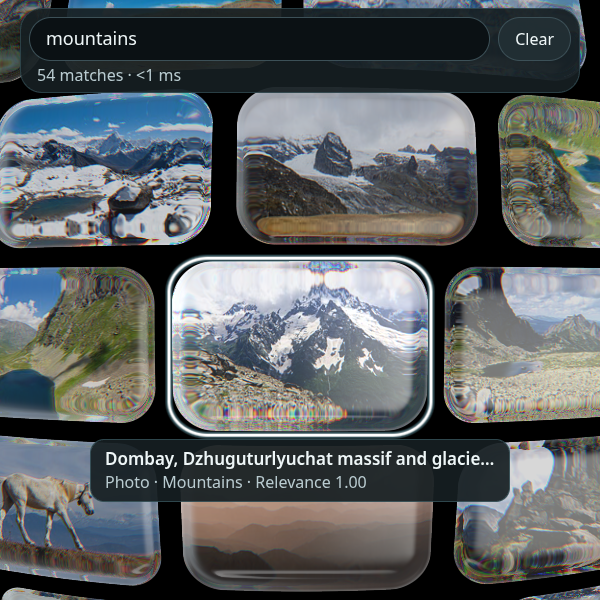
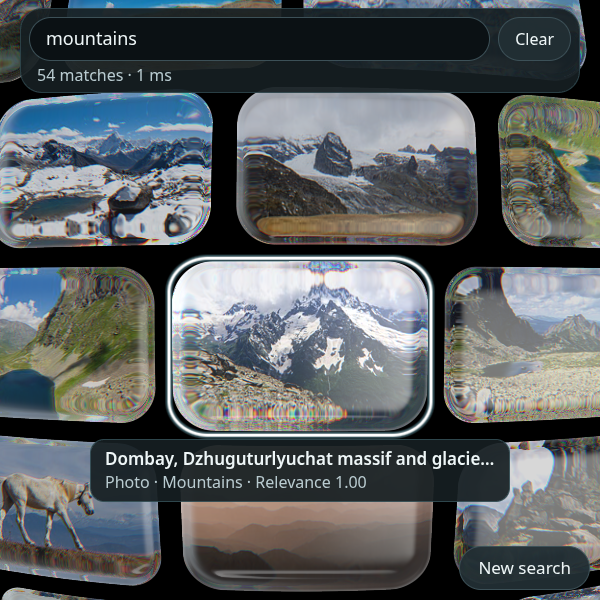
test(e2e): double ArrowUp, viewer and results Search buttons, wrist stand-in and diagnostics at 600x600
Runs with and without --enable-spatial-navigation. Screenshots updated; new
viewer-search.png and results-new-search.png.

Changed region(s): [[0.75, 0.9, 0.99, 0.99], [0.24, 0.12, 0.3, 0.15]]

diff --git a/e2e/glasses.spec.ts b/e2e/glasses.spec.ts
@@ -17,6 +17,7 @@ interface State {
   viewer: string | null;
   items: number;
   index: string;
+  wrist: string;
 }
 
 const MODEL_PATTERN = /huggingface|hf\.co|\.onnx|onnxruntime|ort-wasm|transformers|embeddinggemma|safetensors|\.f16|studio\.hdr/i;
@@ -65,6 +66,8 @@ async function settle(page: Page, ms = 600) {
 /** Waits until the visible card textures have loaded (best effort, network bound). */
 async function mediaSettled(page: Page) {
   await page.waitForLoadState('networkidle', { timeout: 15_000 }).catch(() => {});
+  // Screenshots without the launch-time diagnostics line.
+  await page.locator('.diag').waitFor({ state: 'detached', timeout: 10_000 }).catch(() => {});
   await page.waitForTimeout(1200);
 }
 
@@ -98,9 +101,10 @@ test('browse, search, view and go back with arrows and Enter only', async ({ pag
   await settle(page, 300);
 
   // Up from the top row reaches the search field.
+  // (Presses are spaced beyond the double-ArrowUp window to test the plain path.)
   for (let i = 0; i < 12 && (await activeLabel(page)).id !== 'search-input'; i++) {
     await page.keyboard.press('ArrowUp');
-    await settle(page, 200);
+    await settle(page, 450);
   }
   active = await activeLabel(page);
   expect(active.id).toBe('search-input');
@@ -285,4 +289,215 @@ test('WebMCP tools (beta) drive the same app state when the API exists', async (
   await expect.poll(async () => (await state(page)).viewer).toBeNull();
   expect(JSON.stringify(await call('open_item', { position: 9999 }))).toContain('not_found');
   expect(await page.evaluate(() => history.length)).toBeLessThanOrEqual(5);
+});
+
+// ------------------------------------------------------------------ quick search access
+
+/** Counts activations (clicks) of the search field: that is what opens the composer on the glasses. */
+async function watchActivation(page: Page) {
+  await page.evaluate(() => {
+    const w = window as unknown as { __activations: number };
+    w.__activations = 0;
+    document.getElementById('search-input')!.addEventListener('click', () => w.__activations++);
+  });
+}
+const activations = (page: Page) => page.evaluate(() => (window as unknown as { __activations: number }).__activations);
+
+test('double ArrowUp jumps to the search field and opens the composer; one ArrowUp still navigates', async ({ page }) => {
+  await ready(page);
+  await watchActivation(page);
+  // Move down a few rows so a single Up has somewhere to go.
+  for (let i = 0; i < 3; i++) await page.keyboard.press('ArrowDown');
+  await settle(page, 400);
+  const before = (await state(page)).focused;
+  await page.keyboard.press('ArrowUp');
+  await settle(page, 450);
+  const afterOne = await activeLabel(page);
+  expect(afterOne.className).toContain('card');
+  expect((await state(page)).focused).not.toBe(before);
+  expect(await activations(page)).toBe(0);
+
+  // Two quick presses: focus + activation of the semantic search field.
+  const fromCard = (await state(page)).focused;
+  await page.keyboard.press('ArrowUp');
+  await page.keyboard.press('ArrowUp');
+  const active = await activeLabel(page);
+  expect(active.id).toBe('search-input');
+  expect(await page.locator('#search-input').getAttribute('type')).toBe('search');
+  expect(await activations(page)).toBe(1);
+  // The first press of the pair moved focus at most one row: the second was consumed.
+  expect((await state(page)).focused).not.toBeNull();
+  expect(fromCard).not.toBeNull();
+
+  // Not again from inside the field.
+  await page.keyboard.press('ArrowUp');
+  await page.keyboard.press('ArrowUp');
+  expect(await activations(page)).toBe(1);
+
+  // Committed composer text (input + change only) searches.
+  await compose(page, 'mountains');
+  await expect.poll(async () => (await state(page)).mode).toBe('results');
+  expect((await activeLabel(page)).className).toContain('card');
+
+  // From inside the viewer too: closes it through history first.
+  await page.keyboard.press('Enter');
+  await expect.poll(async () => (await state(page)).viewer).not.toBeNull();
+  const lengthInViewer = await page.evaluate(() => history.length);
+  await page.keyboard.press('ArrowUp');
+  await page.keyboard.press('ArrowUp');
+  await expect.poll(async () => (await state(page)).viewer).toBeNull();
+  await expect.poll(async () => (await activeLabel(page)).id).toBe('search-input');
+  expect(await activations(page)).toBe(2);
+  await expect.poll(() => page.evaluate(() => (history.state as { gm?: string } | null)?.gm)).toBe('results');
+  expect(await page.evaluate(() => history.length)).toBe(lengthInViewer);
+  // Back still clears the search and leaves the app history intact.
+  await page.goBack();
+  await expect.poll(async () => (await state(page)).mode).toBe('browse');
+});
+
+test('viewer Search button is one move from where Down lands and opens the composer', async ({ page }) => {
+  await ready(page);
+  await watchActivation(page);
+  await compose(page, 'mountains');
+  await expect.poll(async () => (await state(page)).mode).toBe('results');
+  await page.keyboard.press('Enter');
+  await expect.poll(async () => (await state(page)).viewer).not.toBeNull();
+  await expect(page.locator('.viewer [data-action="search"]')).toBeVisible();
+  if (shots()) {
+    await mediaSettled(page);
+    await page.screenshot({ path: 'docs/screens/viewer.png' });
+  }
+  await page.keyboard.press('ArrowDown');
+  await page.keyboard.press('ArrowLeft');
+  const label = await activeLabel(page);
+  expect(label.tag).toBe('button');
+  expect(label.label).toBe('New search');
+  expect(label.focusVisible).toBe(true);
+  if (shots()) await page.screenshot({ path: 'docs/screens/viewer-search.png' });
+  await page.keyboard.press('Enter');
+  await expect.poll(async () => (await state(page)).viewer).toBeNull();
+  await expect.poll(async () => (await activeLabel(page)).id).toBe('search-input');
+  expect(await activations(page)).toBe(1);
+  await expect.poll(() => page.evaluate(() => (history.state as { gm?: string } | null)?.gm)).toBe('results');
+  await compose(page, 'rain sounds');
+  await expect(page.locator('.status')).toContainText(/\d+ matches/);
+  expect(await page.evaluate(() => history.length)).toBeLessThanOrEqual(5);
+});
+
+test('"New search" at the end of the results is reached with Down and opens the composer', async ({ page }) => {
+  await ready(page);
+  await watchActivation(page);
+  await expect(page.locator('.results-search')).toBeHidden();
+  await compose(page, 'snow');
+  await expect.poll(async () => (await state(page)).mode).toBe('results');
+  await expect(page.locator('.results-search')).toBeVisible();
+  for (let i = 0; i < 20 && !(await activeLabel(page)).className.includes('results-search'); i++) {
+    await page.keyboard.press('ArrowDown');
+    await settle(page, 120);
+  }
+  let active = await activeLabel(page);
+  expect(active.className).toContain('results-search');
+  expect(active.tag).toBe('button');
+  expect(active.focusVisible).toBe(true);
+  if (shots()) {
+    await mediaSettled(page);
+    await page.screenshot({ path: 'docs/screens/results-new-search.png' });
+  }
+  // Up goes back to the cards; Down returns in one move.
+  await page.keyboard.press('ArrowUp');
+  expect((await activeLabel(page)).className).toContain('card');
+  await page.keyboard.press('ArrowDown');
+  active = await activeLabel(page);
+  expect(active.className).toContain('results-search');
+  await page.keyboard.press('Enter');
+  expect((await activeLabel(page)).id).toBe('search-input');
+  expect(await activations(page)).toBe(1);
+  await compose(page, '');
+  await expect.poll(async () => (await state(page)).mode).toBe('browse');
+  await expect(page.locator('.results-search')).toBeHidden();
+});
+
+test('wrist twist: silent without the band, off with ?wrist=0, diagnostics with ?debug=1', async ({ page }) => {
+  await ready(page, './?debug=1');
+  // Desktop Chromium may have its own RelativeOrientationSensor, but not the glasses marker.
+  await expect.poll(async () => (await state(page)).wrist, { timeout: 8000 }).toBe('unavailable');
+  await expect(page.locator('.wrist-hint')).toBeHidden();
+  await expect(page.locator('.diag')).toHaveText('WebMCP: unavailable · Wrist: unavailable – no emg-wrist sensor');
+  await page.waitForTimeout(4200);
+  await expect(page.locator('.diag')).toBeVisible(); // stays with ?debug=1
+
+  await ready(page, './?wrist=0');
+  expect((await state(page)).wrist).toBe('off');
+  await expect(page.locator('.diag')).toContainText('Wrist: off');
+  await expect(page.locator('.diag')).toBeHidden({ timeout: 6000 }); // launch-only without ?debug=1
+  await page.goto('./?wrist=1'); // re-enable (the setting is remembered)
+});
+
+test('wrist twist opens search with a stand-in emg-wrist sensor (early frame flip ignored)', async ({ page }) => {
+  await page.addInitScript(() => {
+    type Reading = { quaternion: number[] | null; timestamp: number; onreading: (() => void) | null; onerror: unknown };
+    const sensors: Reading[] = [];
+    class FakeWrist {
+      quaternion: number[] | null = null;
+      timestamp = 0;
+      onreading: (() => void) | null = null;
+      onerror: unknown = null;
+      options: unknown;
+      constructor(options: unknown) {
+        this.options = options;
+        sensors.push(this);
+      }
+      start() {}
+      stop() {}
+    }
+    // The marker lands after load, as on the glasses.
+    setTimeout(() => {
+      Object.defineProperty(window, 'RelativeOrientationSensor', { value: Object.assign(FakeWrist, { __imuQuatWrapped: true }), configurable: true });
+    }, 300);
+    let t = 0;
+    (window as unknown as { __wrist: unknown }).__wrist = {
+      get options() {
+        return (sensors.at(-1) as unknown as { options: unknown } | undefined)?.options;
+      },
+      /** Feeds twist angles (deg) at 50 Hz as w-first quaternions. */
+      emit(angles: number[]) {
+        const s = sensors.at(-1);
+        if (!s) return false;
+        for (const deg of angles) {
+          const h = (deg * Math.PI) / 360;
+          s.quaternion = [Math.cos(h), 0, Math.sin(h), 0];
+          s.timestamp = t += 20;
+          s.onreading?.();
+        }
+        return true;
+      },
+    };
+  });
+  await ready(page, './?wrist=1');
+  await watchActivation(page);
+  await expect.poll(async () => (await state(page)).wrist).toBe('starting');
+  const emit = (angles: number[]) => page.evaluate((a) => (window as unknown as { __wrist: { emit: (a: number[]) => boolean } }).__wrist.emit(a), angles);
+  expect(await page.evaluate(() => (window as unknown as { __wrist: { options: unknown } }).__wrist.options)).toEqual({ sensorId: 'emg-wrist' });
+  const hold = (deg: number, n: number) => Array.from({ length: n }, () => deg);
+  const ramp = (a: number, b: number, n: number) => Array.from({ length: n }, (_, i) => a + ((b - a) * (i + 1)) / n);
+  // Settling with an early sign flip: no reference, no trigger.
+  await emit([...hold(25, 20), ...hold(-25, 20), ...ramp(-25, 60, 10), ...ramp(60, -25, 10)]);
+  expect((await state(page)).wrist).toBe('settling');
+  expect(await activations(page)).toBe(0);
+  await emit(hold(-25, 60));
+  expect((await state(page)).wrist).toBe('on');
+  await expect(page.locator('.wrist-hint')).toBeVisible();
+
+  // Open the viewer, then twist: the viewer closes and the composer opens.
+  await page.keyboard.press('Enter');
+  await expect.poll(async () => (await state(page)).viewer).not.toBeNull();
+  await emit([...ramp(-25, 40, 15), ...ramp(40, -25, 15)]);
+  await expect.poll(async () => (await state(page)).viewer).toBeNull();
+  await expect.poll(async () => (await activeLabel(page)).id).toBe('search-input');
+  expect(await activations(page)).toBe(1);
+  // Cooldown + field already focused: nothing more.
+  await emit([...ramp(-25, 40, 15), ...ramp(40, -25, 15)]);
+  expect(await activations(page)).toBe(1);
+  await compose(page, 'ocean');
+  await expect.poll(async () => (await state(page)).mode).toBe('results');
 });
